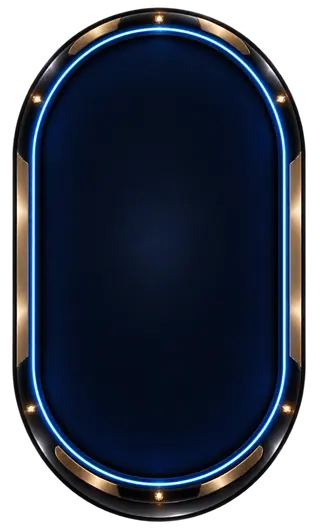
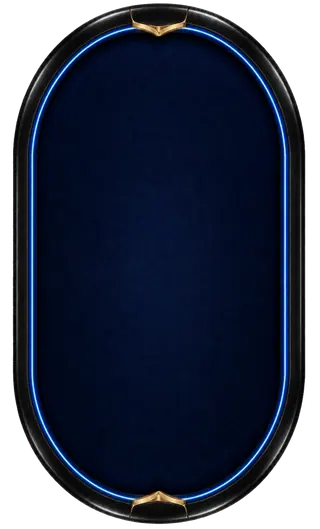
fix: redraw final table for live seat overlays

Changed region(s): [[0.0312, 0.0, 0.9688, 0.9981], [0.0312, 0.2117, 0.0625, 0.242]]

diff --git a/tests/table-skin-must-not-paint-seats.law.test.ts b/tests/table-skin-must-not-paint-seats.law.test.ts
@@ -3,16 +3,13 @@
  *  A TABLE SKIN MAY NOT PAINT SEAT POSITIONS (2026-08-29)
  * ═══════════════════════════════════════════════════════════════════════════════
  *
- * Dan, 2026-08-28: the final table is "broken and distorted around the table
+ * Dan, 2026-08-28: the final table was "broken and distorted around the table
  * where the seat buttons are".
  *
- * `skin_final_table.png` is the only one of the fourteen skins that paints seat
- * furniture into the rail — gold plates with amber jewels. Its geometry is
- * fine: 605x1000 RGBA, identical to the other thirteen, and `.table-art` uses
- * `object-fit: fill`, so a wrong aspect ratio would stretch rather than
- * misalign. The problem is that the painted plates are not where
- * `SEAT_POSITIONS_9MAX` puts the seats, so every seat button lands on a plate
- * edge or on a jewel.
+ * The original `skin_final_table.png` was the only one of the fourteen skins
+ * that painted seat furniture into the rail — gold plates with amber jewels.
+ * Its geometry was fine: 605x1000 RGBA, identical to the other thirteen, but
+ * those plates did not line up with `SEAT_POSITIONS_9MAX`.
  *
  * Nothing caught it, because nothing has ever compared an ASSET against the
  * seat ring. It was authored that way in #1431 and shipped.
@@ -36,14 +33,14 @@
  *
  * MEASURED, all fourteen skins, 44x44px patches:
  *
- *   metric              healthy 13        skin_final_table
- *   sideRailStep        1 .. 52           113
- *   midpointDeviation   0.4 .. 22.9       54.7
+ *   metric              healthy 13        broken final       redrawn final
+ *   sideRailStep        1 .. 52           113                21.4
+ *   midpointDeviation   0.4 .. 22.9       54.7               9.6
  *
  * The thresholds below sit above every healthy skin with room to spare and
- * still fail the final table by more than half again. They are deliberately
- * loose: this is a guard against a NEW skin authored the same way, not a
- * pixel-perfect assertion about art.
+ * below the broken asset by more than half again. They are deliberately loose:
+ * this is a guard against a NEW skin authored the same way, not a pixel-perfect
+ * assertion about art.
  */
 import { describe, it, expect } from 'vitest';
 import fs from 'fs';
@@ -75,7 +72,6 @@ const MAX_MIDPOINT_DEVIATION = 35;
 
 const SKIN_DIR = path.join(process.cwd(), 'src/assets/tables');
 
-/** The known-bad asset. See the it.skip at the foot of this file. */
 const FINAL_TABLE = 'skin_final_table.png';
 
 // ── A PNG reader, because a test may not add a dependency for this ──────────
@@ -194,6 +190,10 @@ function patchLuminance(img: Decoded, xPct: number, yPct: number): number {
   return n === 0 ? 0 : sum / n;
 }
 
+function alphaAt(img: Decoded, x: number, y: number): number {
+  return img.pixels[(y * img.width + x) * 4 + 3];
+}
+
 interface RailReading {
   sideRailStep: number;
   midpointDeviation: number;
@@ -238,11 +238,6 @@ describe('table skins', () => {
   });
 
   for (const file of skins) {
-    // The final table is the known offender and is asserted separately below,
-    // as a skipped spec, so this file is green on main while the art is
-    // redrawn. Everything else must hold now.
-    if (file === FINAL_TABLE) continue;
-
     it(`${file} leaves the side rails to the app`, () => {
       const r = reading.get(file)!;
       expect(r.sideRailStep).toBeLessThan(MAX_SIDE_RAIL_STEP);
@@ -250,38 +245,16 @@ describe('table skins', () => {
     });
   }
 
-  /**
-   * UNSKIP THIS IN THE COMMIT THAT REDRAWS THE ART.
-   *
-   * Bug 7b, reported by Dan on 2026-08-28 and still open: skin_final_table.png
-   * paints gold seat plates and amber jewels into the rail at positions that do
-   * not match SEAT_POSITIONS_9MAX, so seats 3/4 and 7/8 straddle plate edges.
-   * The fix is a redrawn asset — a plain premium rail that keeps the blue neon
-   * and gold trim identity and drops the per-seat furniture — and that needs
-   * Dan's sign-off on the look, so it is not something to improvise into
-   * production.
-   *
-   * The spec is written now so the work is documented rather than remembered.
-   * Measured today: sideRailStep 113 (limit 70), midpointDeviation 54.7
-   * (limit 35).
-   */
-  it.skip('skin_final_table.png leaves the side rails to the app — BLOCKED on redrawn art (bug 7b)', () => {
-    const r = reading.get(FINAL_TABLE)!;
-    expect(r.sideRailStep).toBeLessThan(MAX_SIDE_RAIL_STEP);
-    expect(r.midpointDeviation).toBeLessThan(MAX_MIDPOINT_DEVIATION);
-  });
+  it('keeps the final table as a transparent compositing layer', () => {
+    const img = decodePng(fs.readFileSync(path.join(SKIN_DIR, FINAL_TABLE)));
+    const corners = [
+      [0, 0],
+      [img.width - 1, 0],
+      [0, img.height - 1],
+      [img.width - 1, img.height - 1],
+    ] as const;
 
-  it('still measures the final table as broken, so the skip is not forgotten', () => {
-    // If someone redraws the asset without unskipping the spec above, THIS is
-    // what tells them: the guard has become vacuous and the .skip should go.
-    const r = reading.get(FINAL_TABLE)!;
-    const stillBroken =
-      r.sideRailStep >= MAX_SIDE_RAIL_STEP || r.midpointDeviation >= MAX_MIDPOINT_DEVIATION;
-    expect(
-      stillBroken,
-      `${FINAL_TABLE} now passes the rail check (step ${r.sideRailStep.toFixed(1)}, ` +
-        `midpoint ${r.midpointDeviation.toFixed(1)}). The art has been fixed — ` +
-        `remove the .skip above and delete this test.`
-    ).toBe(true);
+    for (const [x, y] of corners) expect(alphaAt(img, x, y)).toBe(0);
+    expect(alphaAt(img, Math.floor(img.width / 2), Math.floor(img.height / 2))).toBe(255);
   });
 });

diff --git a/docs/changelog/2026-08-29-customization-studios-production-certification.md b/docs/changelog/2026-08-29-customization-studios-production-certification.md
@@ -57,8 +57,8 @@ the actual table continues to render the full-quality originals.
 
 ## Verification
 
-- Full Vitest suite: 596 files, 9,047 passing, 1 intentional skip.
-- Production build: passed; 425 distribution images optimized with 0 failures.
+- Full Vitest suite: 597 files, 9,058 passing, 0 skipped.
+- Production build: passed; 428 distribution images optimized with 0 failures.
 - ESLint: 0 errors. The repository still reports its existing warning backlog.
 - Mobile Chromium coverage at 390 × 844: Avatar Gallery and Table Studio stay
   viewport-contained; catalogs scroll internally; controls meet the 44px touch
@@ -80,3 +80,18 @@ The follow-up entitlement stream was applied and recorded as migration
 `20260829233000`. Live verification confirms `theme_asset_unlocks` uses full
 replica identity, is present in the Supabase Realtime publication, and retains
 its single owner-only SELECT policy.
+
+## Final Table art correction
+
+The automatic MTT Final Table now uses a redrawn mobile-first table layer in
+the established Smarter Casino Realism language: black lacquer and carbon
+materials, midnight navy felt, one restrained electric-blue energy seam, and
+small champagne-gold championship accents. The separate broadcast-room
+background remains behind the table, while live Club Arena avatars, seats,
+cards, chips, controls, names, and stacks remain app-rendered above it.
+
+The old asset's painted side-seat plates and amber jewels were removed. Both
+side rails are now continuous and quiet, so the six- and nine-seat layouts no
+longer collide with baked artwork. The previously skipped pixel-law regression
+is active and passes, and a new alpha assertion prevents an opaque or fake
+checkerboard backdrop from replacing the transparent compositing layer.
